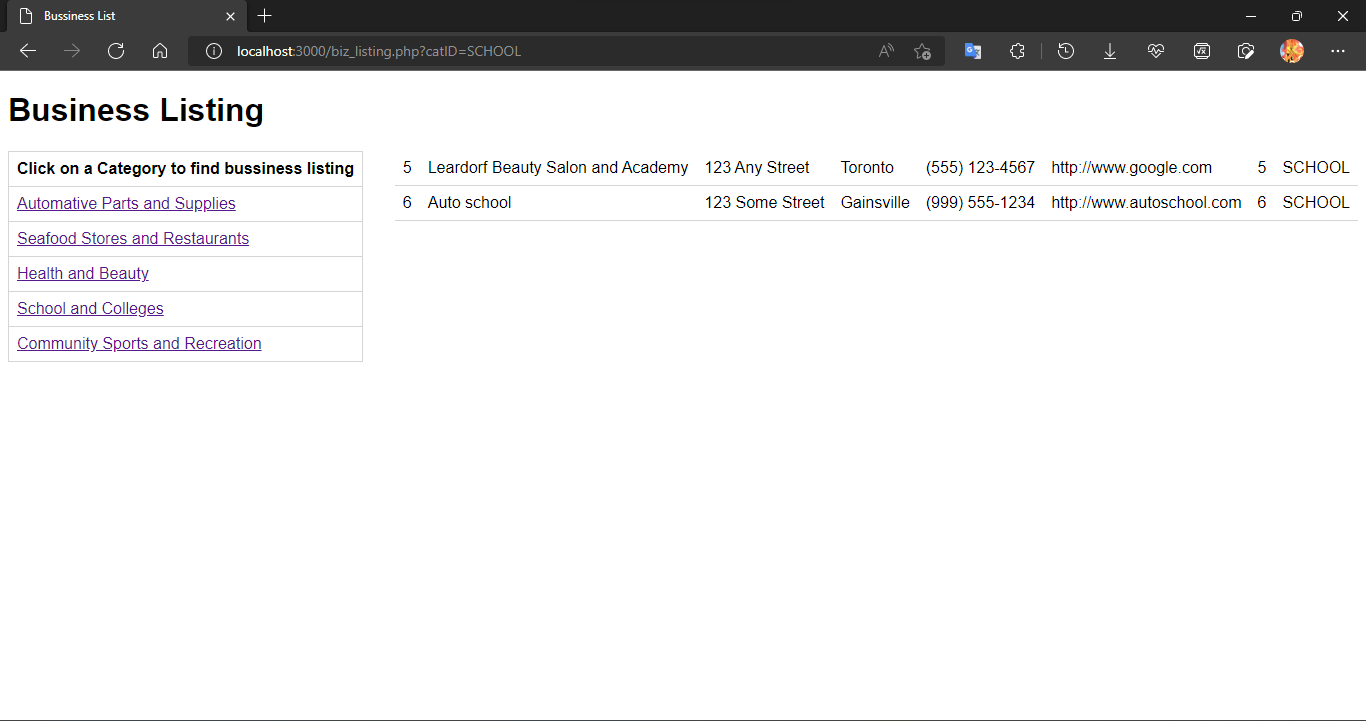
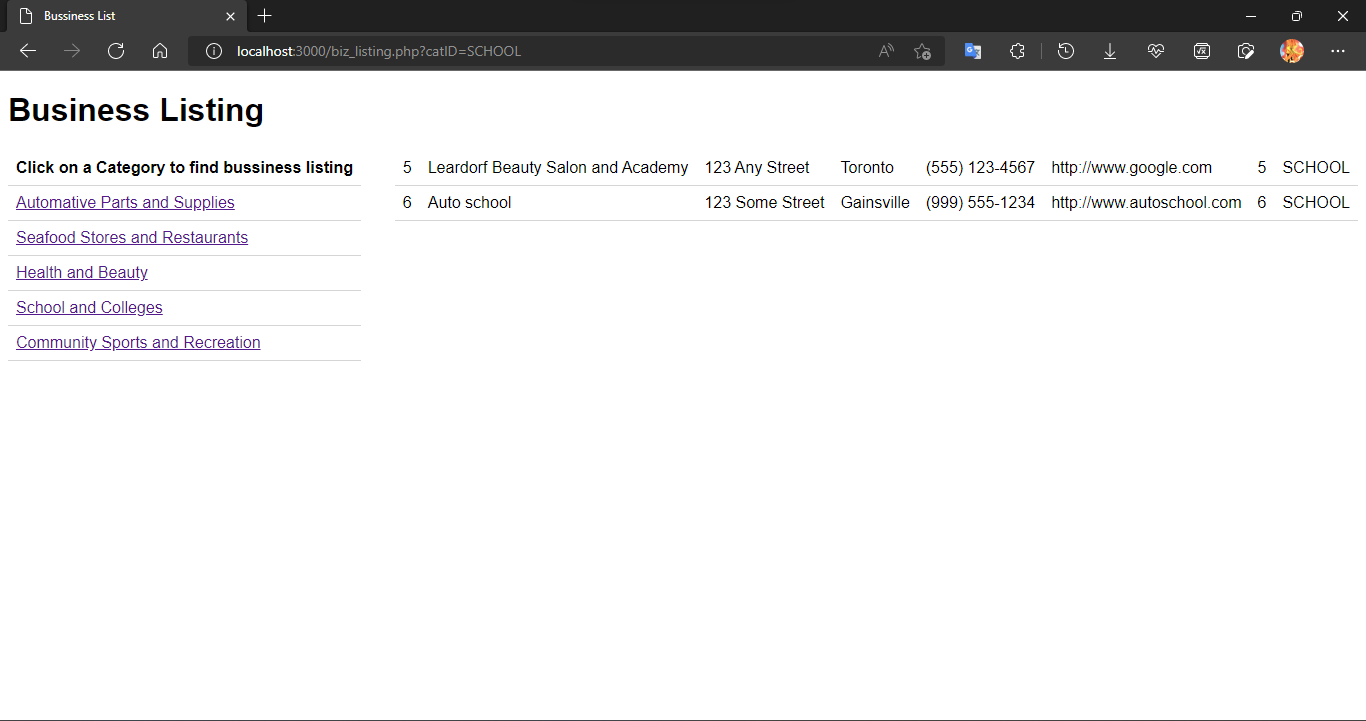
update Lab04

Changed region(s): [[0.0, 0.2136, 0.2767, 0.4882]]

diff --git a/Lab 04/4.5/biz_listing.php b/Lab 04/4.5/biz_listing.php
@@ -98,9 +98,6 @@ if ($result == true) {
         border-collapse: collapse;
         width: 100%;
     }
-    .category{
-        border: 1px solid #d5d5d5;
-    }
     td,
     th {
         border: 1px solid #d5d5d5;
